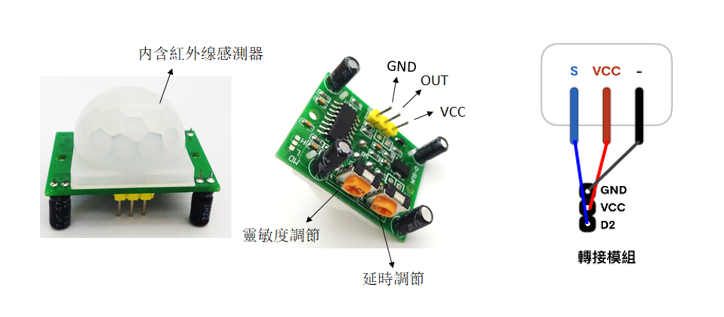
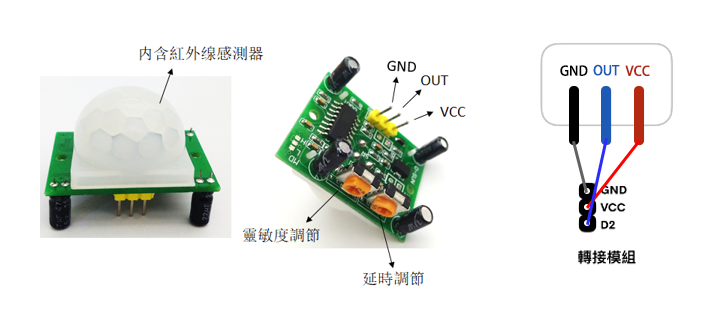
Update 3rd-party.md
-更新人體紅外傳感器的介紹

Changed region(s): [[0.7597, 0.1987, 0.9116, 0.7098]]

diff --git a/cocomod/3rd-party.md b/cocomod/3rd-party.md
@@ -207,7 +207,7 @@
 ### 最終效果
 
 ![hub](../media/hub_18.jpg)
-
+-->
 ---
 
 
@@ -215,7 +215,7 @@
 
 ### 原理簡介
 
-當有人進入其感應範圍則輸出高電平，人離開感應範圍則自動延時關閉高電平，否則輸出低電平。
+紅外線動作感測器 (PIR Motion Sensor) 或稱人體紅外線感測器，是一種可以偵測物體移動的電子裝置。當有人進入其感應範圍則輸出高電平，人離開感應範圍則自動延時關閉高電平，否則輸出低電平。
 
 支持：數位訊號輸入
 
@@ -225,22 +225,34 @@
 
 | 序號 | 參數         | 内容 |
 |----|---------|--|
-| 1 | 偵測距離 | 3米以内 |
-| 2 | 偵測距離 | 小於110° |
-| 3 | 延遲時間 | 5~200秒，預設5秒 |
+| 1 | 偵測距離 | 3米或7米以内(可以調節) |
+| 2 | 偵測距離 | 小於120° |
+| 3 | 延遲時間 | 5~200秒，預設5秒(可以調節) |
 | 4 | 封鎖時間 | 2.5秒 |
 
-**使用説明：** 1. 模塊通電后有一分鐘左右的初始化時間，在此期間模塊會間隔地輸出0~3次，隨後進入待機狀態。2. 使用時，盡量避免燈光等干擾源近距離地直射模塊表面透鏡，使用的環境避免流動的風。3.可以打開透鏡，查看各接口的訊號類型。
+**使用説明：**
+1. 模組通電后有一分鐘左右的初始化時間，在此期間模組會間隔地輸出0~3次，隨後進入待機狀態；
+2. 使用時，盡量避免燈光等干擾源近距離地直射感應器表面透鏡，使用的環境避免流動的風。
+3. 可以打開透鏡，查看各接口的訊號類型；
+4. 感應器上有兩個調節旋鈕，分別是「靈敏度調節」旋鈕和「延時調節」旋鈕:
+ - 「靈敏度調節」旋鈕:順時針旋轉電位器，感應距離增大（最大約7米），反之，感應距離減小（最小約3米）
+ - 「延時調節」旋鈕:時針旋轉電位器，感應延時加長（最長約200秒），反之，感應延時減短（最短約5秒）
+ <div style="padding: 10px 0 10px 0;text-align: center;"><img src="../media/hub_19_2.png" width="60%" /></div>
+5. 跳綫帽需扣在下圖所示的位置，以此設置感應器為可重複觸發的方式，即能夠連續地檢測到人體，若扣在靠外側的兩個引脚則為不重複觸發的方式。
+ <div style="padding: 10px 0 10px 0;text-align: center;"><img src="../media/hub_19_3.png" width="60%" /></div>
+6. 此感應器自帶延時，在人離開后，會有5秒（延時最短的情況下）的延時，并且即使感應器已感應到有人，人體需保持活動狀態的情況下感應器才會認爲此時有人，只要一停止不動5秒，感應器則視爲未檢測到人體。
 
 ### 積木編程
 
-![hub](../media/hub_20.png)
+<div style="padding: 10px 0 10px 0;text-align: center;"><img src="../media/hub_20.png" width="60%" /></div>
 
 ### 最終效果
 
-![hub](../media/hub_21.jpg)
+數字0表示未檢測到有人，數字1表示檢測到有人
 
--->
+<div style="padding: 10px 0 10px 0;text-align: center;"><img src="../media/hub_21.jpg" width="55%" style="margin:0 10px 0 0;"/><img src="../media/hub_21_2.png" width="35%" /></div>
+
+
 
 ---
 
